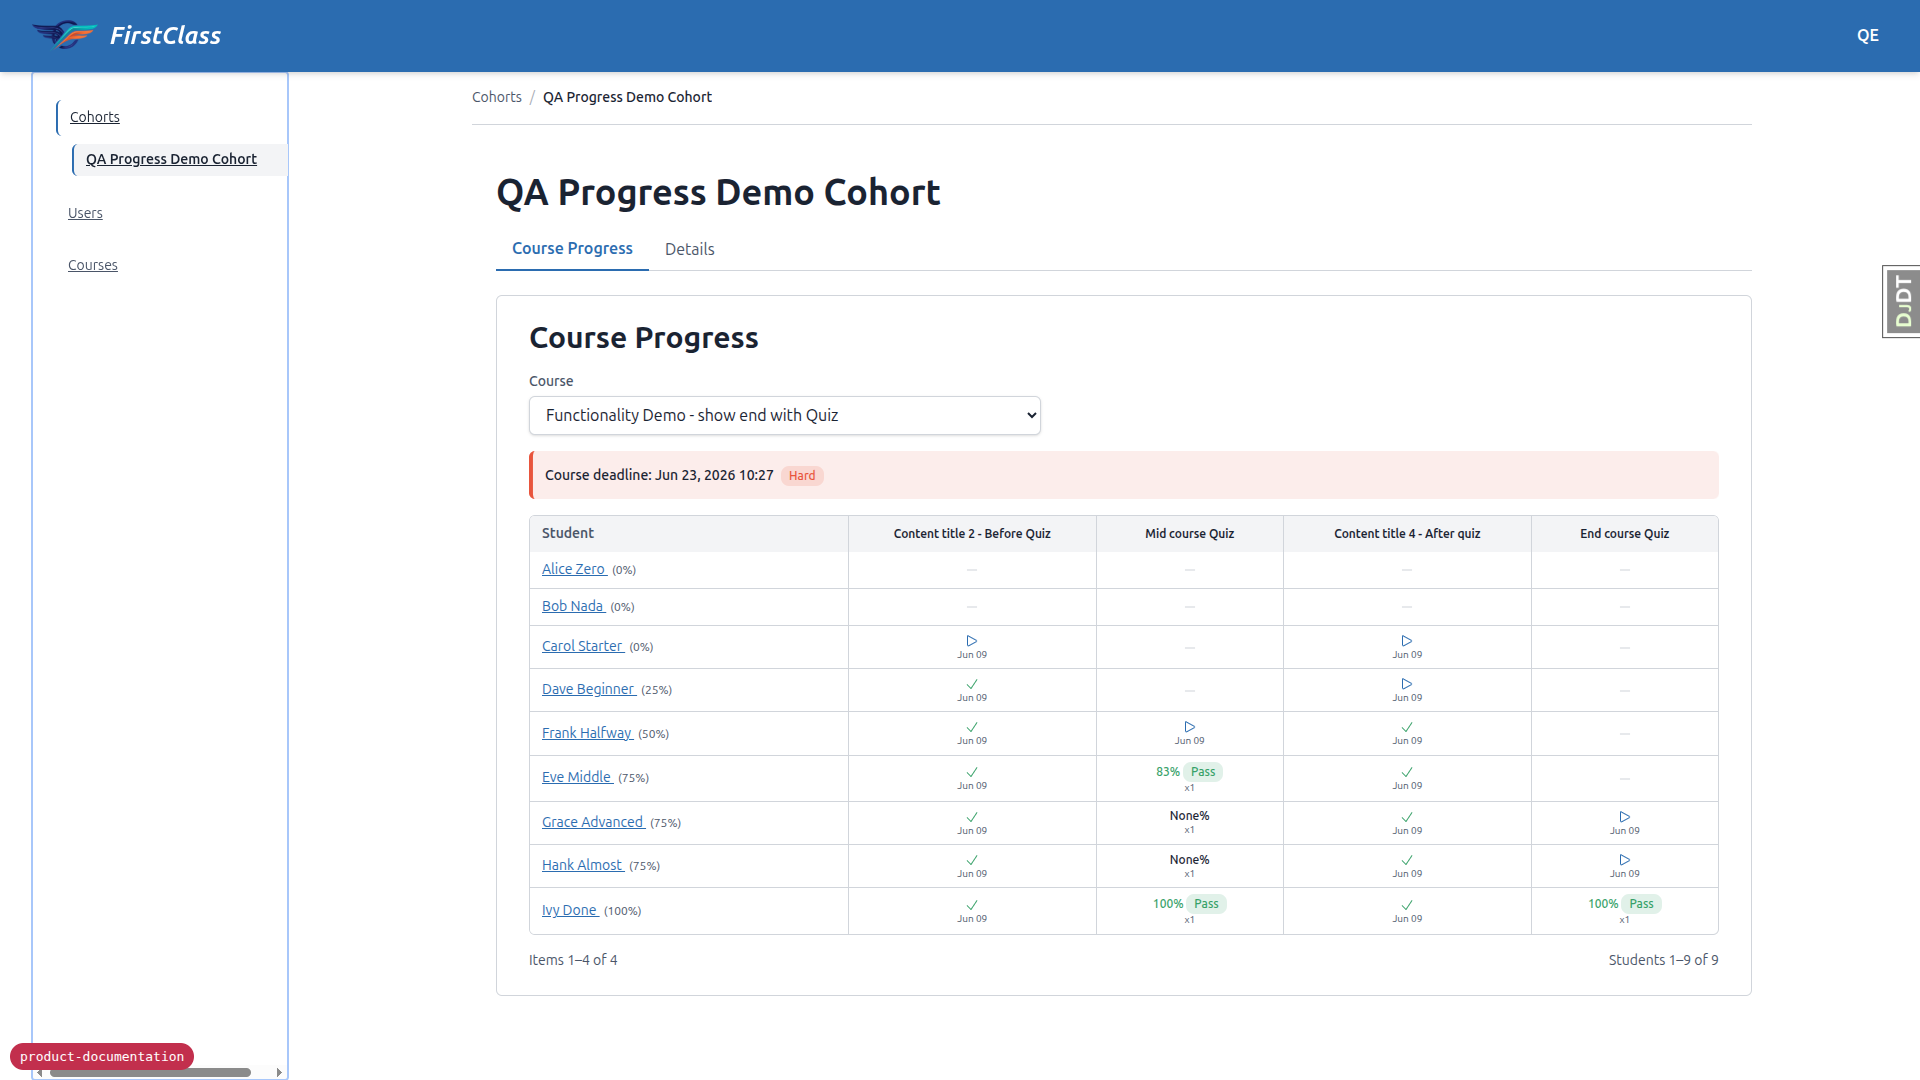
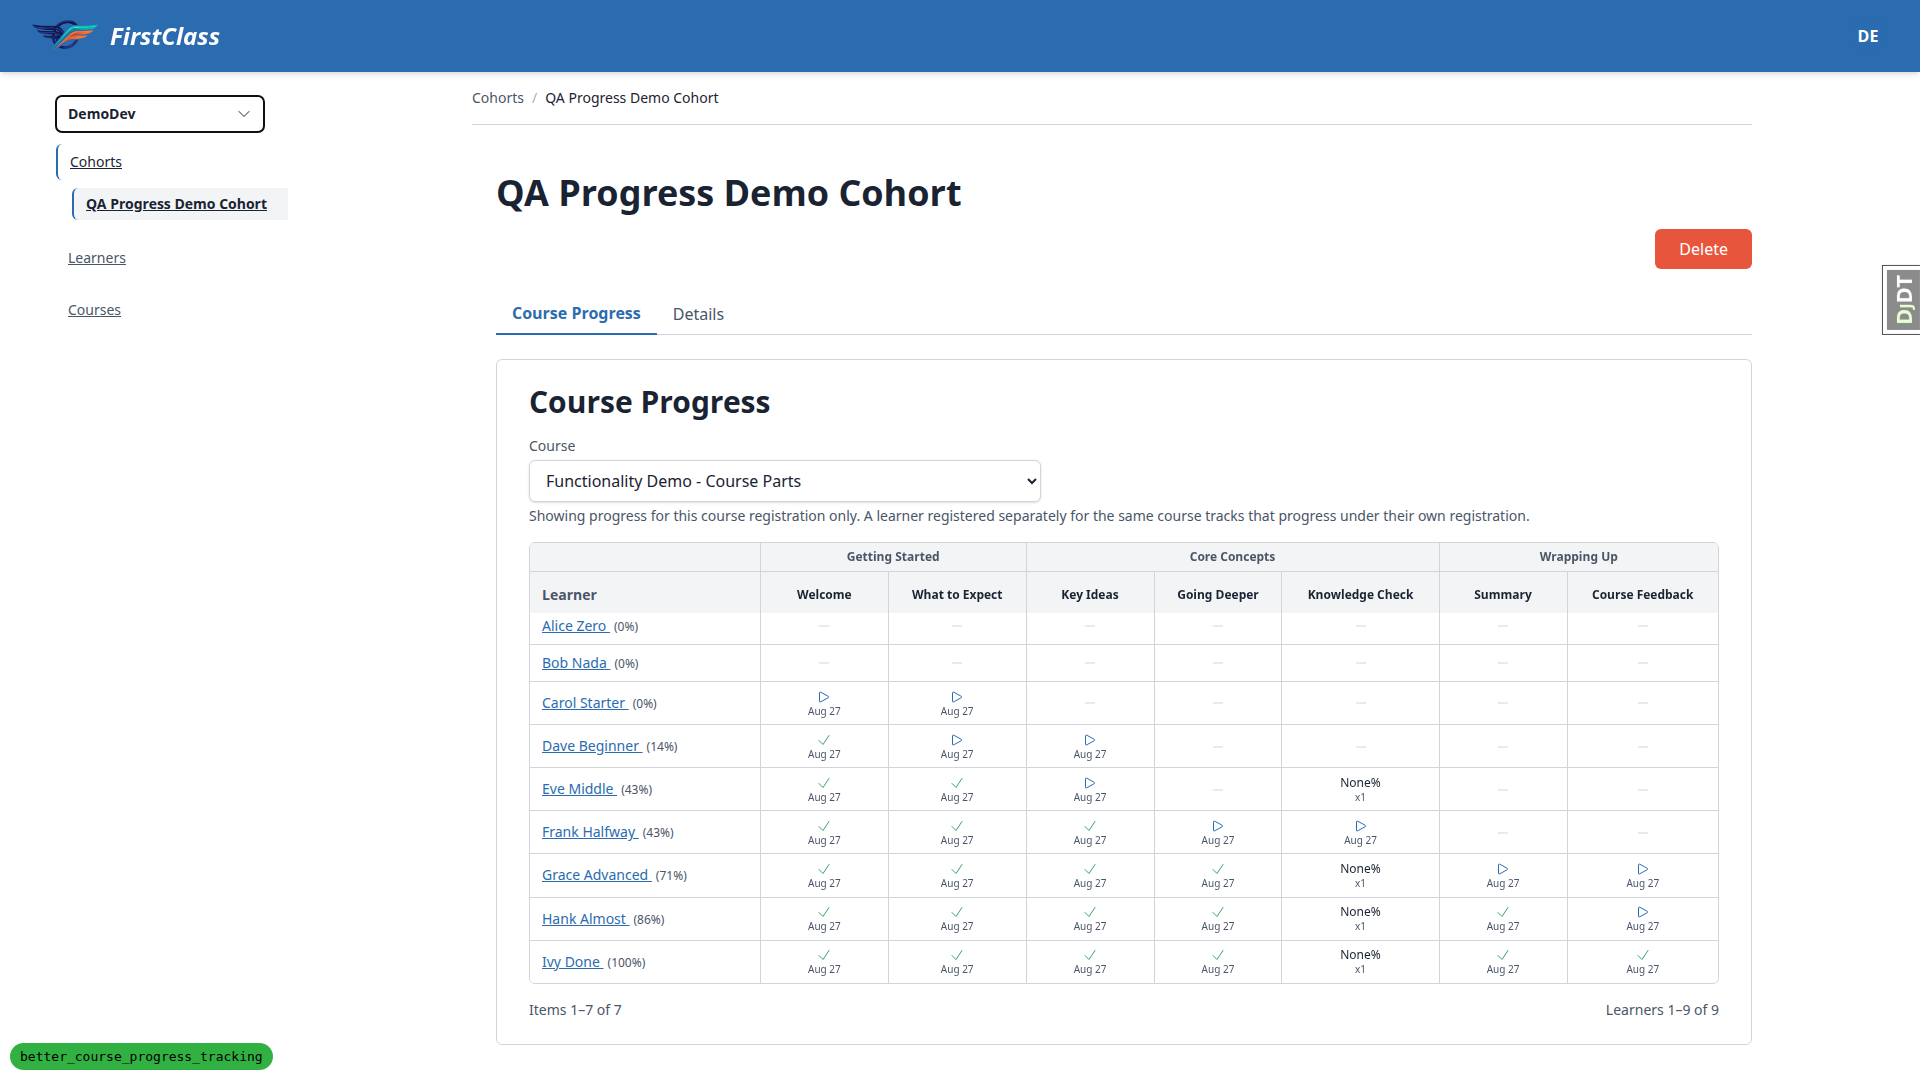
Document per-registration progress in the product docs
Progress is now scoped to the registration that granted access, so six
product docs carried statements that had gone stale.

- learner-tracking: replace the "None of this is scoped by organisation"
  paragraph, which is now false, and correct the per-topic, per-attempt
  and per-course grain
- webhooks: add organisation_id and course_progress_id to the two course
  event payloads
- educator-interface: the matrix reads one cohort registration, and a
  cohort with progress can no longer be deleted
- reports: figures cover the cohort's own registration only
- learner-experience: deadlines resolve per organisation
- admin-interface: registrations, cohorts and courses with progress
  cannot be deleted

The matrix screenshot is replaced with a current capture from the
form_engine regression QA run — the shipped one predated the learner
rename and lacks the new registration-scope note.

diff --git a/docs/product/learner-tracking.md b/docs/product/learner-tracking.md
@@ -1,26 +1,27 @@
 # Learner Tracking
 
-_Last updated: 2026-08-21_
+_Last updated: 2026-08-27_
 
 ## Summary
 
 - FLS records per-item completion for every topic and form a learner interacts with, plus a per-course progress percentage and a resume pointer. This is the closest built-in equivalent to an activity log.
 - Quiz attempts store per-question answers, scores, and pass/fail. Attempts are unlimited and every attempt is kept as a separate record.
+- Progress is scoped to the registration that granted access, so a learner registered for the same course through two organisations accumulates two independent sets of progress rather than one shared set.
 - Course progress percentage recalculates automatically when an item is completed. A quiz only counts toward it once the learner has passed — a failed attempt does not complete the item. See [progress percentage](#progress-percentage).
 - Administrators see all progress data in the Django admin. Educators see completion and quiz data for their cohorts in the [educator interface](./educator-interface.md).
 - **Not built:** time-on-task duration and xAPI. There is still no CSV or API export of scores or grades, though a staff user can generate a per-cohort PDF report holding completion, quiz scores, and per-question answers — see [cohort reports](./reports.md). See [roadmap](./roadmap.md).
 
 ## What Is Recorded
 
-**Per topic** — one record per learner per topic, created when they first open it. It holds when they started, when they last opened it, and when they marked it done.
+**Per topic** — one record per position the topic occupies in a learner's pass through a course, created when they first open it. The same topic placed twice in one course, or reused in another course, is tracked separately at each position. It holds when they started, when they last opened it, and when they marked it done.
 
-**Per form or quiz attempt** — one record per attempt. It holds when the attempt started, when it was last saved (forms can span multiple pages and be resumed), when it was submitted, and the raw score data the course's scoring strategy uses to produce a score and a pass/fail result. Because each attempt is its own record, a learner's full attempt history is retained.
+**Per form or quiz attempt** — one record per attempt, scoped the same way: a quiz reused at another position, or in another course, keeps its own attempt history there. It holds when the attempt started, when it was last saved (forms can span multiple pages and be resumed), when it was submitted, and the raw score data the course's scoring strategy uses to produce a score and a pass/fail result. Because each attempt is its own record, a learner's full attempt history is retained.
 
 **Per question** — the learner's selected options or free-text answer, stored against the attempt it belongs to.
 
-**Per course** — one record per learner per course, created when they register. It holds start time, last-accessed time, completion time, the progress percentage, and a pointer to the item they last viewed, which is what the course player uses to resume them. Last-accessed time is a read timestamp: opening an item stamps it, while submitting a quiz answer does not. Browsing a course without registering leaves no tracking record.
+**Per course** — one record per registration that granted the learner access, created when the registration is made. It holds start time, last-accessed time, completion time, the progress percentage, and a pointer to the item they last viewed, which is what the course player uses to resume them. Last-accessed time is a read timestamp: opening an item stamps it, while submitting a quiz answer does not. Browsing a course without registering leaves no tracking record.
 
-None of this is scoped by organisation. A learner can hold a separate registration for the same course through more than one organisation — see [multi-tenancy and isolation](./multi-tenancy-and-isolation.md#organisations) — but progress tracks the learner and the course, not the registration: they still have one record per topic, one course record, and one shared quiz-attempt history, however many organisations they are registered through.
+A learner can hold more than one registration for the same course — most often through more than one organisation, but also by holding a cohort registration and an individual one at once. Each grants its own progress record, with its own percentage, completion time, resume pointer, and quiz-attempt history; completing the course under one leaves the other exactly as it stands. The learner interface shows one registration's progress at a time and offers no organisation switch, so the two are never seen side by side. See [multi-tenancy and isolation](./multi-tenancy-and-isolation.md#organisations).
 
 ## Progress Percentage
 

diff --git a/docs/product/admin-interface.md b/docs/product/admin-interface.md
@@ -8,6 +8,7 @@ _Last updated: 2026-08-27_
 - Administrators grant educators access to specific cohorts through per-object permissions.
 - Organisations are created, renamed, and given a logo — optionally a second, reversed one for a dark background — entirely through the admin, with no delete and no merge. Assigning someone a staff role on an organisation grants access to every cohort inside it, including ones added later.
 - An organisation's learners are curated in the admin and only there: an administrator associates a user with an organisation before or independently of any enrolment, and marks a learner removed. Removal is soft — it suspends that person's access to the organisation's courses without touching their memberships, registrations, or progress — and a learner cannot be deleted outright.
+- A course registration that has recorded progress cannot be deleted, and nor can a cohort or course whose registrations have. Deactivating a registration or removing a cohort member withdraws access without touching the progress.
 - A staff user generates a cohort's progress report from the admin by picking a cohort and triggering generation; the choice is limited to cohorts that user is allowed to see, generation runs in the background, and the finished PDF downloads through a permission-checked link rather than a public URL.
 - The admin path is configurable via `DJANGO_ADMIN_URL`, so production can move it off the default location.
 - Legal consent records are fully read-only — they cannot be added, changed, or deleted.
@@ -38,6 +39,8 @@ Logo uploads accept PNG, JPEG, and WebP; SVG is rejected deliberately. A maximum
 An organisation's roster — who belongs to it, independently of any enrolment — is curated in the Django admin, and only there; the educator interface's [Learners section](./educator-interface.md#learners) is read-only. An administrator associates an existing user with an organisation as one of its learners, and the same person can be a learner of more than one organisation on a site. See [multi-tenancy and isolation](./multi-tenancy-and-isolation.md#organisations) for what an organisation is.
 
 Removing a learner is soft: it suspends their access to courses held through that organisation, but never deletes or alters their cohort memberships, course registrations, or progress history, and leaves their standing in any other organisation untouched. Reactivating them restores access with nothing to rebuild. A learner cannot be deleted outright.
+
+The same restraint extends to course registrations: once a registration has recorded [progress](./learner-tracking.md), the admin refuses to delete it and lists the progress standing in the way. Deleting a cohort or a course cascades to their registrations, so those deletes are blocked too. Deactivating a registration, removing a cohort member, or marking a learner removed all stay available and leave the recorded progress intact.
 
 There is no bulk add or remove, no CSV import, and no view showing one person's associations across every organisation at once.
 

diff --git a/docs/product/educator-interface.md b/docs/product/educator-interface.md
@@ -1,6 +1,6 @@
 # Educator Interface
 
-_Last updated: 2026-08-23_
+_Last updated: 2026-08-27_
 
 ## Summary
 
@@ -20,7 +20,7 @@ The educator interface is a single-page application, scoped to one organisation 
 ### Cohorts
 
 - **List view** — each cohort in the current organisation the educator has access to, with its learner count and registered courses.
-- **Detail view** — cohort name (editable inline), learner members, and registered courses. Cohorts can be created and deleted. Only a cohort the educator has access to can be opened — see [Access Control](#access-control).
+- **Detail view** — cohort name (editable inline), learner members, and registered courses. Cohorts can be created and deleted, though deletion is refused — with a plain message naming what still depends on it — once the cohort has course progress recorded against it. Only a cohort the educator has access to can be opened — see [Access Control](#access-control).
 - **Course Progress tab** — the [progress matrix](#course-progress-matrix).
 
 ### Learners
@@ -62,6 +62,8 @@ The Courses section is the exception: it is not organisation-scoped, and the swi
 ![Cohort progress matrix](screenshots/educator_cohort_progress_matrix.png)
 
 The Course Progress tab on a cohort detail page shows a paginated matrix of learners (rows) against course items (columns). Each cell shows completion status (complete / in progress / not started), the quiz score and pass/fail outcome for form items, and the item's deadline with an overdue indicator where the deadline has passed and the item is not complete. Both cohort-level deadlines and per-learner overrides are visible.
+
+The matrix shows the selected cohort registration's progress and only that — the percentage column and the item cells always read the same registration, so the two halves cannot disagree. A cohort member who also holds their own registration for the same course did that work under the other registration and reads as 0% here; the panel carries an on-screen note saying so, and there is no way to reach the other registration's progress from this view. See [learner tracking](./learner-tracking.md) for how progress is scoped.
 
 This view is on-screen only, and shows one course at a time. For a printable, filable record covering every course the cohort is registered for, a [cohort progress report](./reports.md) can be produced from the Django admin by anyone with cohort access under either route in [access control](#access-control).
 

diff --git a/docs/product/webhooks.md b/docs/product/webhooks.md
@@ -1,6 +1,6 @@
 # Webhooks
 
-_Last updated: 2026-08-23_
+_Last updated: 2026-08-27_
 
 ## Summary
 
@@ -18,10 +18,12 @@ Webhooks are an outbound data flow to third-party systems. Three event types shi
 | Event type | Trigger | Payload fields |
 |---|---|---|
 | `user.registered` | New user completes email verification | `user_id`, `user_email`, `first_name`, `last_name` |
-| `course.registered` | Learner self-registers or is registered for a course | `user_id`, `user_email`, `course_id`, `course_title`, `registered_at` |
-| `course.completed` | Learner completes every item in a course | `user_id`, `user_email`, `course_id`, `course_title`, `completed_time` |
+| `course.registered` | Learner self-registers or is registered for a course | `user_id`, `user_email`, `course_id`, `course_title`, `registered_at`, `organisation_id`, `course_progress_id` |
+| `course.completed` | Learner completes every item in a course | `user_id`, `user_email`, `course_id`, `course_title`, `completed_time`, `organisation_id`, `course_progress_id` |
 
 Every payload is wrapped in an envelope carrying the event's unique id, its type, an ISO 8601 UTC timestamp, and the event-specific fields above. Receivers should key on the envelope id for their own idempotency.
+
+On the two course events, `organisation_id` names the [organisation](./multi-tenancy-and-isolation.md#organisations) the learner is studying through and `course_progress_id` identifies the progress record the event concerns, so a receiver can pair a registration event with the completion event for the same pass through a course. A learner registered for one course through two organisations produces two independent pairs.
 
 The event list is a registry a deployment can extend, not a fixed set.
 

diff --git a/docs/product/learner-experience.md b/docs/product/learner-experience.md
@@ -1,6 +1,6 @@
 # Learner Experience
 
-_Last updated: 2026-08-21_
+_Last updated: 2026-08-27_
 
 ## Summary
 
@@ -223,4 +223,4 @@ Deadlines are set by administrators (cohort-level or per-learner) and are read-o
 - **Hard deadline** — once expired, an incomplete item is locked. A lock icon is shown and the learner cannot open it. Completed items are never locked.
 - **Soft deadline** — shown to the learner but never locks anything; the content stays accessible and completable past the date. Note there is no explicit "overdue" state on the learner's side — overdue highlighting appears only in the educator's [progress matrix](./educator-interface.md#course-progress-matrix).
 
-Where both a cohort deadline and a per-learner override apply, the most permissive — the latest — governs. Deadlines can be disabled site-wide via the `DEADLINES_ACTIVE` setting.
+Where both a cohort deadline and a per-learner override apply, the most permissive — the latest — governs. Where a learner is registered for the same course through more than one [organisation](./multi-tenancy-and-isolation.md#organisations), each organisation's deadlines apply only to that organisation's registration; they are never merged into one list. Deadlines can be disabled site-wide via the `DEADLINES_ACTIVE` setting.

diff --git a/docs/product/reports.md b/docs/product/reports.md
@@ -71,7 +71,7 @@ See [admin interface](./admin-interface.md#cohort-progress-reports) for the admi
 
 **Activities and free-text answers are excluded** from completion figures and from the quiz analyses, because FLS records no completion data for activities and no correctness concept for free-text answers.
 
-**Individually registered courses are not covered.** Only the cohort's own course registrations appear; a course a learner joined on their own is absent from the report.
+**Individually registered courses are not covered.** Only the cohort's own course registrations appear; a course a learner joined on their own is absent from the report. Within a covered course, the completion figures, quiz attempts and at-risk flags reflect only the work done under the cohort's own registration — the same learner's activity through a registration of their own, or through another organisation, is not folded in.
 
 **Deadlines are not shown.** Deadlines are a live-tracking concept and a point-in-time PDF is deliberately not where they belong.
 

diff --git a/spec_dd/2. in progress/better_course_progress_tracking/todo.md b/spec_dd/2. in progress/better_course_progress_tracking/todo.md
@@ -79,7 +79,7 @@ Checklist for taking this spec from idea to merged PR. Tick items as they are co
 
 ## 10. Product documentation
 
-- [ ] (cmd) Run `/fls-dev:update_product_docs` to update docs/product/ for this feature
+- [x] (cmd) Run `/fls-dev:update_product_docs` to update docs/product/ for this feature
 - [ ] (user) Review the updated documentation
 
 ## 11. Upgrade notes
